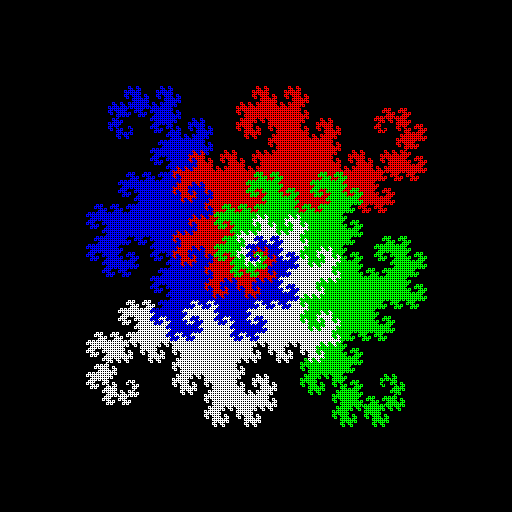
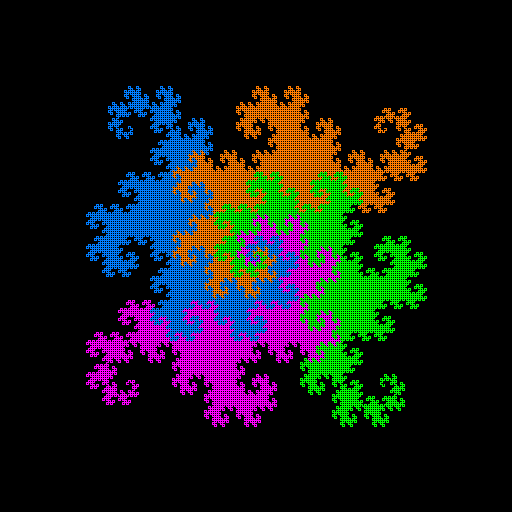
dog go tall and hug toddler, le sigh, bababooey

Changed region(s): [[0.1562, 0.1562, 0.8438, 0.8438]]

diff --git a/main.go b/main.go
@@ -9,8 +9,9 @@ import (
 )
 
 const IMAGE_SIZE = 512
-const OFFSET = 0
-const START_X, START_Y = IMAGE_SIZE/2 + OFFSET, IMAGE_SIZE/2 - OFFSET
+const OFFSET_X = 0
+const OFFSET_Y = -0
+const START_X, START_Y = IMAGE_SIZE/2 + OFFSET_X, IMAGE_SIZE/2 - OFFSET_Y
 const STEP = 2
 const MAX_ITERATIONS = 14
 
@@ -89,10 +90,10 @@ func DrawDragon(img *image.NRGBA, instructions []int, color color.NRGBA) {
 func main() {
 
 	// internal constants
-	color_1 := color.NRGBA{R: 255, G: 255, B: 255, A: 255}
-	color_2 := color.NRGBA{R: 255, G: 0, B: 0, A: 255}
+	color_1 := color.NRGBA{R: 255, G: 0, B: 255, A: 255}
+	color_2 := color.NRGBA{R: 255, G: 125, B: 0, A: 255}
 	color_3 := color.NRGBA{R: 0, G: 255, B: 0, A: 255}
-	color_4 := color.NRGBA{R: 0, G: 0, B: 255, A: 255}
+	color_4 := color.NRGBA{R: 0, G: 125, B: 255, A: 255}
 
 	// Create image full of black pixels
 	img := image.NewNRGBA(image.Rect(0, 0, IMAGE_SIZE, IMAGE_SIZE))
